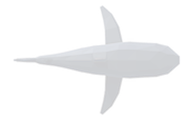
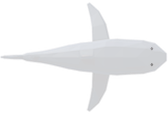
added new blood images, eyes on shark

diff --git a/web/source/ecosystem.dart b/web/source/ecosystem.dart
@@ -19,6 +19,8 @@ class Ecosystem extends Sprite {
   List<int> _babies = new List<int>(3);
   List<int> _fishCount = new List<int>(3);
   
+  BitmapData _tunaBloodData, _sardineBloodData;
+
   var random = new math.Random();
   
   Ecosystem(ResourceManager resourceManager, Juggler juggler, Fleet fleet) {
@@ -26,6 +28,9 @@ class Ecosystem extends Sprite {
     _juggler = juggler;
     _fleet = fleet;
     random = new math.Random();
+    
+    _tunaBloodData = _resourceManager.getBitmapData("TunaBlood");
+    _sardineBloodData = _resourceManager.getBitmapData("SardineBlood");
     
     _babies[TUNA] = 0;
     _babies[SARDINE] = 0;
@@ -35,7 +40,7 @@ class Ecosystem extends Sprite {
     _fishCount[SHARK] = 0;
 
     addFish(2, SHARK);
-    addFish(20, TUNA);
+    addFish(50, TUNA);
     addFish(200, SARDINE);
     
     new Timer.periodic(const Duration(seconds : 15), (timer) => _respawnFishes());
@@ -72,8 +77,6 @@ class Ecosystem extends Sprite {
   
   void removeFish(Fish f, int reason) {
     _juggler.remove(f);
-    this.removeChild(f);
-    f.removeFromParent();
     if (f.type == TUNA) {
       _fishCount[TUNA]--;
     }
@@ -86,22 +89,23 @@ class Ecosystem extends Sprite {
     if (reason == STARVATION) {
       var t = new Tween(f, 2.0, TransitionFunction.linear);
       t.animate.alpha.to(0);
-      t.onComplete = () => f.removeFromParent();
-      
       _juggler.add(t);
     }
     if (reason == EATEN) {
-      var blood = new Shape();
-      blood.graphics.circle(f.x, f.y, 5);
-      blood.graphics.fillColor(Color.DarkRed);
-      stage.addChild(blood);
+      Bitmap blood = new Bitmap();
+      if (f.type==SARDINE) blood.bitmapData=_sardineBloodData;
+      if (f.type==TUNA) blood.bitmapData = _tunaBloodData;
+      blood.x = f.x;
+      blood.y = f.y;
+      addChild(blood);
       
       var t = new Tween(blood, 2.0, TransitionFunction.linear);
       t.animate.alpha.to(0);
-      t.onComplete = () => blood.removeFromParent();
+      t.onComplete = () => removeChild(blood);
       
       _juggler.add(t);
     }
+    removeChild(f);
     fishes.remove(f);
   } 
   

diff --git a/web/source/fish.dart b/web/source/fish.dart
@@ -34,14 +34,14 @@ class Fish extends Bitmap implements Animatable {
       _minSeparation = 15;
       _rotationSpeed = math.PI/16;
       _hunger = 0;
-      _hungerMax = _random.nextInt(200) + 2000;
+      _hungerMax = _random.nextInt(200) + 5000;
       _foodType = Ecosystem.SARDINE;
       _predType = Ecosystem.SHARK;
-      _eyesightRadius = 75;
+      _eyesightRadius = 50;
       _dartV = 150;
       _dartRotationSpeed = math.PI/2;
       _flocking = true;
-      _dartTimerMax = _random.nextInt(200) + 200;
+      _dartTimerMax = _random.nextInt(100) + 50;
     }
     if (type == Ecosystem.SHARK) {
       _v = .6;
@@ -51,7 +51,7 @@ class Fish extends Bitmap implements Animatable {
       _hungerMax = _random.nextInt(200) + 2000;
       _foodType = Ecosystem.TUNA;
       _predType = -1;
-      _eyesightRadius = 75;
+      _eyesightRadius = 100;
       _dartV = 20;
       _dartRotationSpeed = math.PI/8;
       _flocking = false;
@@ -62,7 +62,7 @@ class Fish extends Bitmap implements Animatable {
       _minSeparation = 1;
       _rotationSpeed = math.PI/8;
       _hunger = 0;
-      _hungerMax = _random.nextInt(200) + 5000;
+      _hungerMax = _random.nextInt(200) + 500;
       _foodType = Ecosystem.MAGIC;
       _predType = Ecosystem.TUNA;
       _eyesightRadius = 75;
@@ -71,7 +71,7 @@ class Fish extends Bitmap implements Animatable {
       _flocking = true;
       _dartTimerMax = _random.nextInt(5) + 30;
       _magicTimer = 0;
-      _magicTimerMax = _random.nextInt(5) + 100;
+      _magicTimerMax = _random.nextInt(550) + 50;
     }
   }
   
@@ -89,7 +89,8 @@ class Fish extends Bitmap implements Animatable {
     } else _hunger++;
     if (_foodType == Ecosystem.MAGIC) {
       if (_magicTimer > _magicTimerMax) {
-        _hunger = _hunger - _hungerMax~/100;
+        _hunger = 0;
+        _magicTimerMax = _random.nextInt(550) + 50;
         _magicTimer = 0;
       } else _magicTimer++;
     }

diff --git a/web/source/boat.dart b/web/source/boat.dart
@@ -66,6 +66,7 @@ class Boat extends Sprite implements Touchable, Animatable {
      
      _net = new Bitmap(_resourceManager.getBitmapData("Net"));
      _net.addEventListener(Event.ADDED, _netLoaded);
+     
      addChild(_net);
    }
    
@@ -94,6 +95,8 @@ class Boat extends Sprite implements Touchable, Animatable {
       
       rotation = newRot;
       _setNewLocation(newRot);
+    } else {
+      _goStraight();
     }
     return true;
   }
@@ -200,7 +203,7 @@ class Boat extends Sprite implements Touchable, Animatable {
       _turnMode = RIGHT;
       _juggler.remove(_netSkew);
       _netSkew = new Tween(_net, .75, TransitionFunction.easeInQuadratic);
-      _netSkew.animate.skewX.to(.6);
+      _netSkew.animate.skewX.to(.4);
       _juggler.add(_netSkew);
     }
   }
@@ -209,7 +212,7 @@ class Boat extends Sprite implements Touchable, Animatable {
       _turnMode = LEFT;
       _juggler.remove(_netSkew);
       _netSkew = new Tween(_net, .75, TransitionFunction.easeInQuadratic);
-      _netSkew.animate.skewX.to(-.6);
+      _netSkew.animate.skewX.to(-.4);
       _juggler.add(_netSkew);
     }
   }

diff --git a/web/index.dart b/web/index.dart
@@ -32,6 +32,8 @@ void main() {
   resourceManager.addBitmapData("Tuna", "images/tuna.png");
   resourceManager.addBitmapData("Shark", "images/shark.png");
   resourceManager.addBitmapData("Sardine", "images/sardine.png");
+  resourceManager.addBitmapData("SardineBlood", "images/sardine_blood.png");
+  resourceManager.addBitmapData("TunaBlood", "images/tuna_blood.png");
   
   resourceManager.load().then((res) {
     var game = new Game(resourceManager, stage.juggler);
